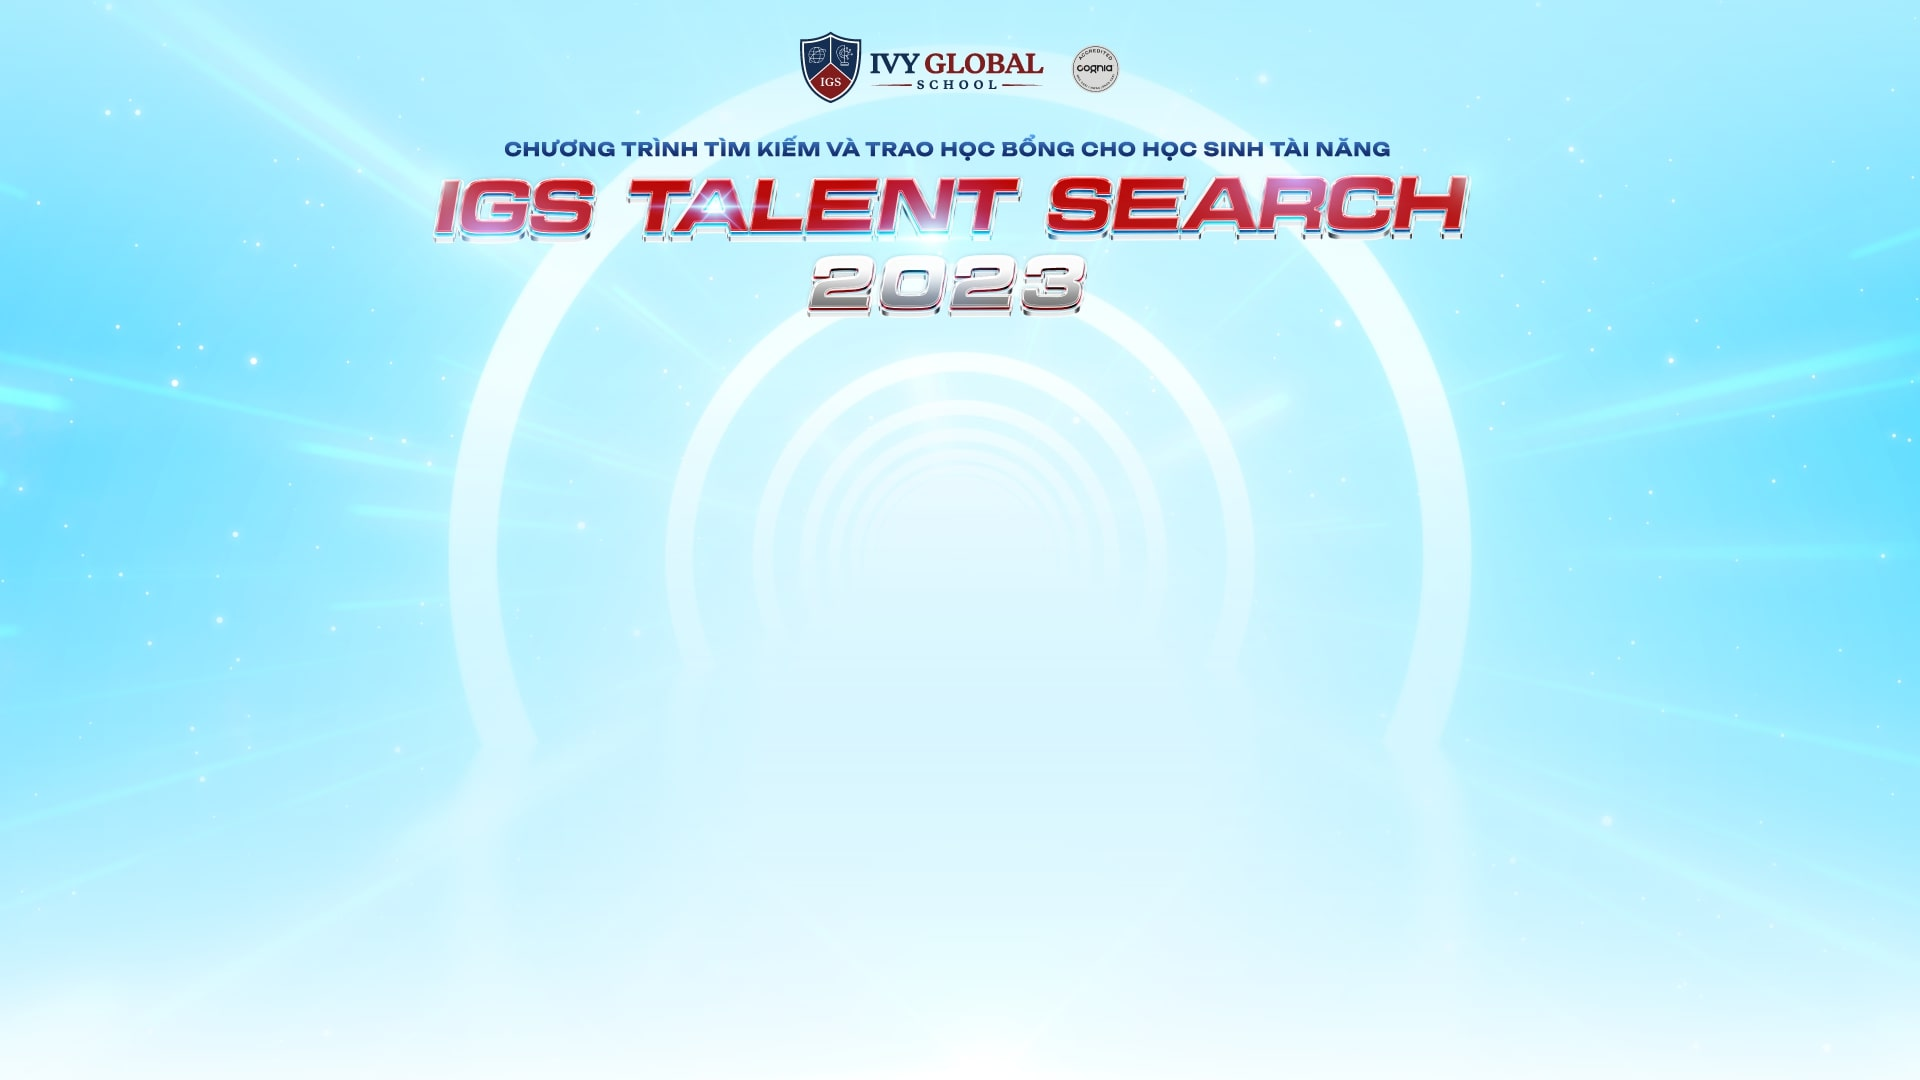
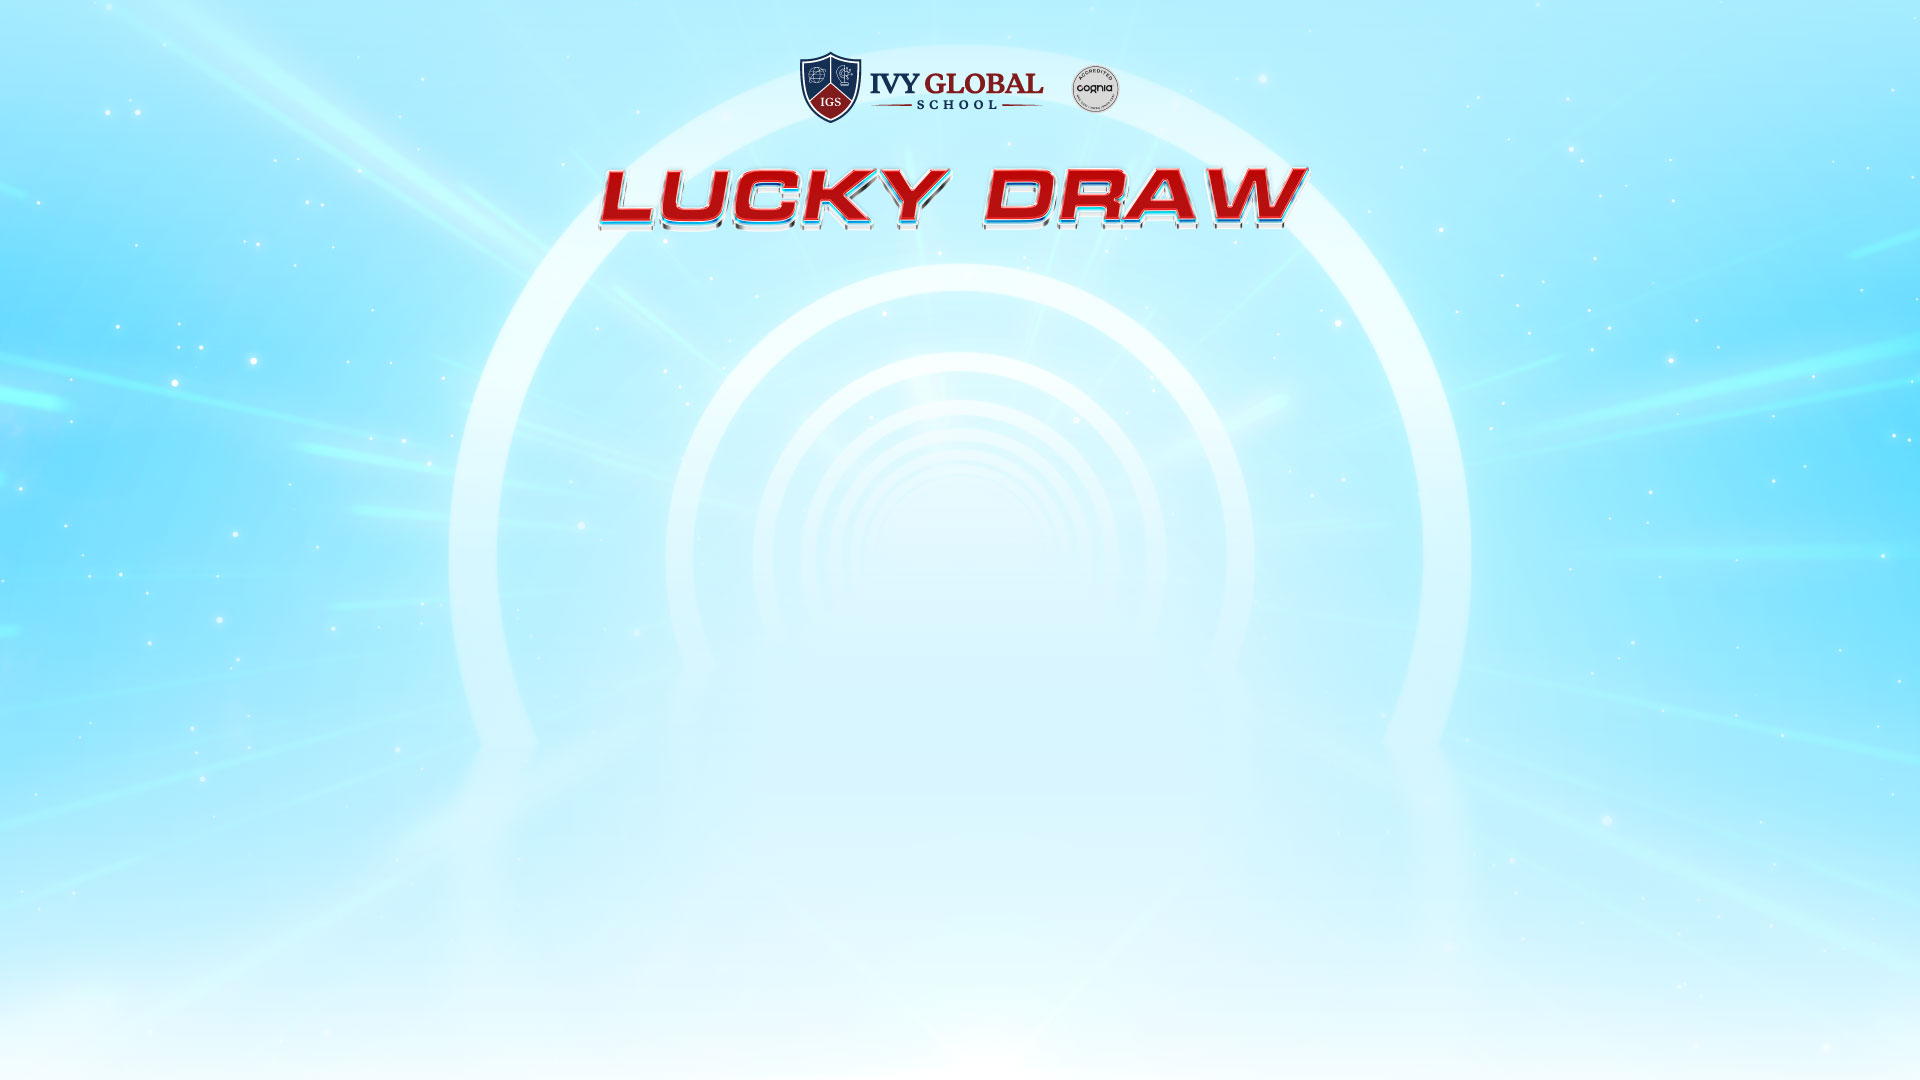
done

Changed region(s): [[0.2188, 0.0306, 0.7812, 0.3056]]

diff --git a/assets/js/main.js b/assets/js/main.js
@@ -24,6 +24,8 @@ function initRandom() {
 			const id = result[i]
 			setWinner(i, id)	
 		}
+
+		$('#list_control').addClass('active')
 	});
 }
 initRandom();
@@ -52,8 +54,9 @@ function setWinner(index, id) {
 	const block = $(`.block[data-id="${id}"]`)
 	const name = block.data('name')
 	const phone = block.data('phone')
+	const idDisplay = block.text()
 	// set prize blocks info
-	prizeBlock.find('.prize-id').text(id)
+	prizeBlock.find('.prize-id').text(idDisplay)
 	prizeBlock.find('.prize-name').text(name)
 	prizeBlock.find('.prize-phone').text(phone)
 	const img = prizeBlock.data('img')
@@ -64,19 +67,24 @@ function setWinner(index, id) {
 
 	// set dialog info
 	const dialog = $('#dialog')
-	dialog.find('.dialog-id').text(id)
+	dialog.find('.dialog-id').text(idDisplay)
 	dialog.find('.dialog-name').text(name)
 	dialog.find('.dialog-phone').text(phone)
 	dialog.find('.dialog-img').attr('src', img)
 }
 
 function random(index, steps, interval, region) {
-	let blocks = $('.block').not('.final')
-	if (region) blocks = blocks.filter(`[data-region="${region}"]`);
 	const ids = [];
+	const idsRegion = []
+	let blocks = $('.block').not('.final')
 	blocks.each(function() {
 		const id = $(this).data('id')
 		ids.push(id)
+	})
+	if (region) blocks = blocks.filter(`[data-region="${region}"]`);
+	blocks.each(function() {
+		const id = $(this).data('id')
+		idsRegion.push(id)
 	})
 
 	let currentStep = 0
@@ -96,29 +104,40 @@ function random(index, steps, interval, region) {
 		currentStep++
 		if (currentStep > steps) {
 			clearInterval(highlight)
+			let randomIndexRegion = null
+			while (randomIndexRegion === null || $(`.block[data-id="${idsRegion[randomIndexRegion]}"]`).hasClass('final')) {
+				randomIndexRegion = Math.floor((Math.random() * idsRegion.length));
+			}
+			const randomIDRegion = idsRegion[randomIndexRegion]
 
-			setWinner(index, randomID)
-			saveResult()
+			setTimeout(() => {
+				setWinner(index, randomIDRegion)
+				saveResult()
+			}, interval)
 
 			// show congratulations
-			openDialog()
+			setTimeout(openDialog, 3 * interval)
+			// openDialog()
 		}
 	}, interval);
 }
 
 $('#start_random').on('click', async function() {
-	$('.close').addClass('d-none');
-	bgm.play();
-
 	const currentPrize = $('.prize-block').filter(function() {
 		const winnerID = $(this).data('winner-id')
 		return winnerID === '' || winnerID === undefined || winnerID === null
 	}).first()
+
+	if (!currentPrize.length) return;
+
+	$('.close').addClass('d-none');
+	bgm.play();
+	
 	const index = $('.prize-block').index(currentPrize)
 	const region = currentPrize.data('region')
 	const steps = 20
 	const interval = 300
-	const duration = (steps + 1) * interval
+	const duration = (steps + 3) * interval
 	random(index, steps, interval, region)
 
 	setTimeout(() => {

diff --git a/assets/css/main.css b/assets/css/main.css
@@ -12,7 +12,7 @@ body {
 	justify-content: center;
 }
 .wrapper {
-	margin-top: 20%;
+	margin-top: 12%;
 	margin-bottom: 2rem;
 }
 .actions .btn {
@@ -20,7 +20,7 @@ body {
 }
 .block {
 	padding: 5px 5px;
-	margin: 4px 2px;
+	margin: 8px;
 	width: 45px;
 	height: 45px;
 	font-size: 12px;
@@ -34,12 +34,14 @@ body {
 }
 
 .block.highlight {
-	filter: drop-shadow(0 0 10px white);
+/*	filter: drop-shadow(0 0 10px white);*/
+	box-shadow: 0 0 6px 4px rgb(255 255 255 / 0.4);
 	transform: scale(1.1);
 	background: rgba(0, 0, 0, 0.7);
 }
 .block.final {
-	filter: drop-shadow(0 0 10px white);
+/*	filter: drop-shadow(0 0 10px white);*/
+	box-shadow: 0 0 6px 4px rgb(255 255 255 / 0.4);
 	transform: scale(1.1);
 	background: #267c3e;
 }

diff --git a/index.php b/index.php
@@ -1,3 +1,4 @@
+<?php $cache = '230628'; ?>
 <!DOCTYPE html>
 <html lang="vi-VN">
 <head>
@@ -5,63 +6,47 @@
 	<meta content="width=device-width, initial-scale=1" name="viewport"/>
 	<link href="http://gmpg.org/xfn/11" rel="profile"/>
 	<title>
-		Year End Party 2022 - Together We Go
+		Lucky Draw - Ivy Global School
 	</title>
 	<meta content="vi_VN" property="og:locale"/>
 	<meta content="article" property="og:type"/>
-	<meta content="EQuest Year End Party 2022 - Together We Go" property="og:title"/>
-	<meta content="EQuest Year End Party 2022 - Together We Go" property="og:description"/>
-	<meta content="Ivyprep Education" property="og:site_name"/>
-	<!-- <meta content="bg-2.jpg" property="og:image"/> -->
-	<meta content="EQuest Year End Party 2022 - Together We Go" name="twitter:card"/>
-	<meta content="EQuest Year End Party 2022 - Together We Go" name="twitter:description"/>
-	<meta content="EQuest Year End Party 2022 - Together We Go" name="twitter:title"/>
-	<!-- <meta content="bg-2.jpg" name="twitter:image"/> -->
+	<meta content="Lucky Draw - Ivy Global School" property="og:title"/>
+	<meta content="Lucky Draw - Ivy Global School" property="og:description"/>
+	<meta content="Ivy Global School" property="og:site_name"/>
+	<meta content="assets/imgs/bg.jpg" property="og:image"/>
+	<meta content="Lucky Draw - Ivy Global School" name="twitter:card"/>
+	<meta content="Lucky Draw - Ivy Global School" name="twitter:description"/>
+	<meta content="Lucky Draw - Ivy Global School" name="twitter:title"/>
+	<meta content="assets/imgs/bg.jpg" name="twitter:image"/>
 	<link href="https://cdn.jsdelivr.net/npm/bootstrap@5.3.0-alpha3/dist/css/bootstrap.min.css" rel="stylesheet" integrity="sha384-KK94CHFLLe+nY2dmCWGMq91rCGa5gtU4mk92HdvYe+M/SXH301p5ILy+dN9+nJOZ" crossorigin="anonymous">
 	<link rel="shortcut icon" href="https://ivyglobalschool.org/media/0scluqrx/logo-favicon.ico" type="image/x-icon" />
 	<link rel="icon" href="https://ivyglobalschool.org/media/0scluqrx/logo-favicon.ico" type="image/ico" />
 
-	<link rel="stylesheet" type="text/css" href="assets/css/main.css" />
+	<link rel="stylesheet" type="text/css" href="assets/css/main.css?v=<?php echo $cache; ?>" />
 </head>
 <body>
 	<div class="container wrapper">
 		<div class="row">
 			<div class="col">
-				<div class="prize-block" data-region="HN" data-img="assets/imgs/prize-1.jpg">
-					<img class="img-fluid prize-img" src="https://placehold.co/400?text=?" />
-					<div class="prize-id text-center fw-bold mt-3"></div>
+				<div class="prize-block" data-region="12" data-img="assets/imgs/prize-1.png">
+					<img class="img-fluid prize-img" src="assets/imgs/prize-1.png" />
+					<div class="prize-id text-center fw-bold mt-3 lead"></div>
 					<div class="prize-name text-center fw-bold"></div>
 					<div class="prize-phone text-center fw-bold"></div>
 				</div>
 			</div>
 			<div class="col">
-				<div class="prize-block" data-region="HCM" data-img="assets/imgs/prize-1.jpg">
-					<img class="img-fluid prize-img" src="https://placehold.co/400?text=?" />
-					<div class="prize-id text-center fw-bold mt-3"></div>
+				<div class="prize-block" data-region="12" data-img="assets/imgs/prize-2.png">
+					<img class="img-fluid prize-img" src="assets/imgs/prize-2.png" />
+					<div class="prize-id text-center fw-bold mt-3 lead"></div>
 					<div class="prize-name text-center fw-bold"></div>
 					<div class="prize-phone text-center fw-bold"></div>
 				</div>
 			</div>
 			<div class="col">
-				<div class="prize-block" data-region="HCM" data-img="assets/imgs/prize-1.jpg">
-					<img class="img-fluid prize-img" src="https://placehold.co/400?text=?" />
-					<div class="prize-id text-center fw-bold mt-3"></div>
-					<div class="prize-name text-center fw-bold"></div>
-					<div class="prize-phone text-center fw-bold"></div>
-				</div>
-			</div>
-			<div class="col">
-				<div class="prize-block" data-region="HN" data-img="assets/imgs/prize-1.jpg">
-					<img class="img-fluid prize-img" src="https://placehold.co/400?text=?" />
-					<div class="prize-id text-center fw-bold mt-3"></div>
-					<div class="prize-name text-center fw-bold"></div>
-					<div class="prize-phone text-center fw-bold"></div>
-				</div>
-			</div>
-			<div class="col">
-				<div class="prize-block" data-region="" data-img="assets/imgs/prize-2.jpg">
-					<img class="img-fluid prize-img" src="https://placehold.co/400?text=?" />
-					<div class="prize-id text-center fw-bold mt-3"></div>
+				<div class="prize-block" data-region="3" data-img="assets/imgs/prize-3.png">
+					<img class="img-fluid prize-img" src="assets/imgs/prize-3.png" />
+					<div class="prize-id text-center fw-bold mt-3 lead"></div>
 					<div class="prize-name text-center fw-bold"></div>
 					<div class="prize-phone text-center fw-bold"></div>
 				</div>
@@ -96,25 +81,26 @@
 						<?php
 
 						$api_url = 'https://sheets.googleapis.com/v4/spreadsheets/';
-						$param = '/values/Sheet1!A2:D?key=';
-						$sheet_id = '1kmYEaZjHyclVt1J8WAd6w4kb-t9sI9rV_fE0ilsez9s';
+						$sheet_name = urlencode('Danh sách');
+						$param = "/values/$sheet_name!A2:J?key=";
+						$sheet_id = '1mzYCcy_VCzOeMPzdodfgIhyUEXmqr3izFu6VYHbpgv8';
 						$api_key = 'AIzaSyCLFuNJC0xurqzXY2r1WoQcIDC3hHyR4uI';
 						$json = file_get_contents($api_url.$sheet_id.$param.$api_key);
 						$data_arr = json_decode($json)->values;
 
 						foreach ($data_arr as $key => $data) {
-							$id = $data[0] ?? '';
+							$id = $data[8] ?? '';
 							if (!$id) continue;
 
 							$id_display = $id;
 							$id_display = strlen($id_display) < 2 ? '0'.$id_display : $id_display;
 							$id_display = strlen($id_display) < 3 ? '0'.$id_display : $id_display;
 
-							$name = $data[1] ?? '';
-							$phone = $data[2] ?? '';
+							$name = $data[3] ?? '';
+							$phone = $data[4] ?? '';
 							if ($phone) $phone = '******'.substr($phone, -4);
 
-							$region = $data[3] ?? '';
+							$region = $data[9] ?? '';
 
 							$tooltip = [];
 							if ($name) $tooltip[] = $name;
@@ -128,7 +114,7 @@
 					</div>
 				</div>
 				<div class="modal-footer">
-					<button type="button" class="btn close btn-secondary" data-bs-dismiss="modal">Đóng</button>
+					<button type="button" class="btn close btn-secondary" data-bs-dismiss="modal">Quay về</button>
 				</div>
 			</div>
 		</div>
@@ -137,12 +123,12 @@
 	<!-- Dialog -->
 	<div id="dialog" class="dialog">
 		<div class="dialog-content">
-			<img class="dialog-img img-fluid" src="https://placehold.co/400?text=?" />
-			<div class="p-3 text-center">
-				<p class="dialog-id"></p>
+			<img class="dialog-img img-fluid" src="assets/imgs/400.svg" />
+			<div class="p-3 text-center fw-bold">
+				<p class="dialog-id lead fw-bold"></p>
 				<p class="dialog-name"></p>
 				<p class="dialog-phone"></p>
-				<button class="btn btn-secondary" onclick="closeDialog()">Close</button>
+				<button class="btn btn-secondary" onclick="closeDialog()">Đóng</button>
 			</div>
 		</div>
 	</div>
@@ -150,6 +136,6 @@
 	<script src="https://code.jquery.com/jquery-3.7.0.min.js" integrity="sha256-2Pmvv0kuTBOenSvLm6bvfBSSHrUJ+3A7x6P5Ebd07/g=" crossorigin="anonymous"></script>
 	<script src="https://cdn.jsdelivr.net/npm/bootstrap@5.3.0-alpha3/dist/js/bootstrap.bundle.min.js" integrity="sha384-ENjdO4Dr2bkBIFxQpeoTz1HIcje39Wm4jDKdf19U8gI4ddQ3GYNS7NTKfAdVQSZe" crossorigin="anonymous"></script>
 
-	<script type="text/javascript" src="assets/js/main.js"></script>
+	<script type="text/javascript" src="assets/js/main.js?v=<?php echo $cache; ?>"></script>
 </body>
 </html>
